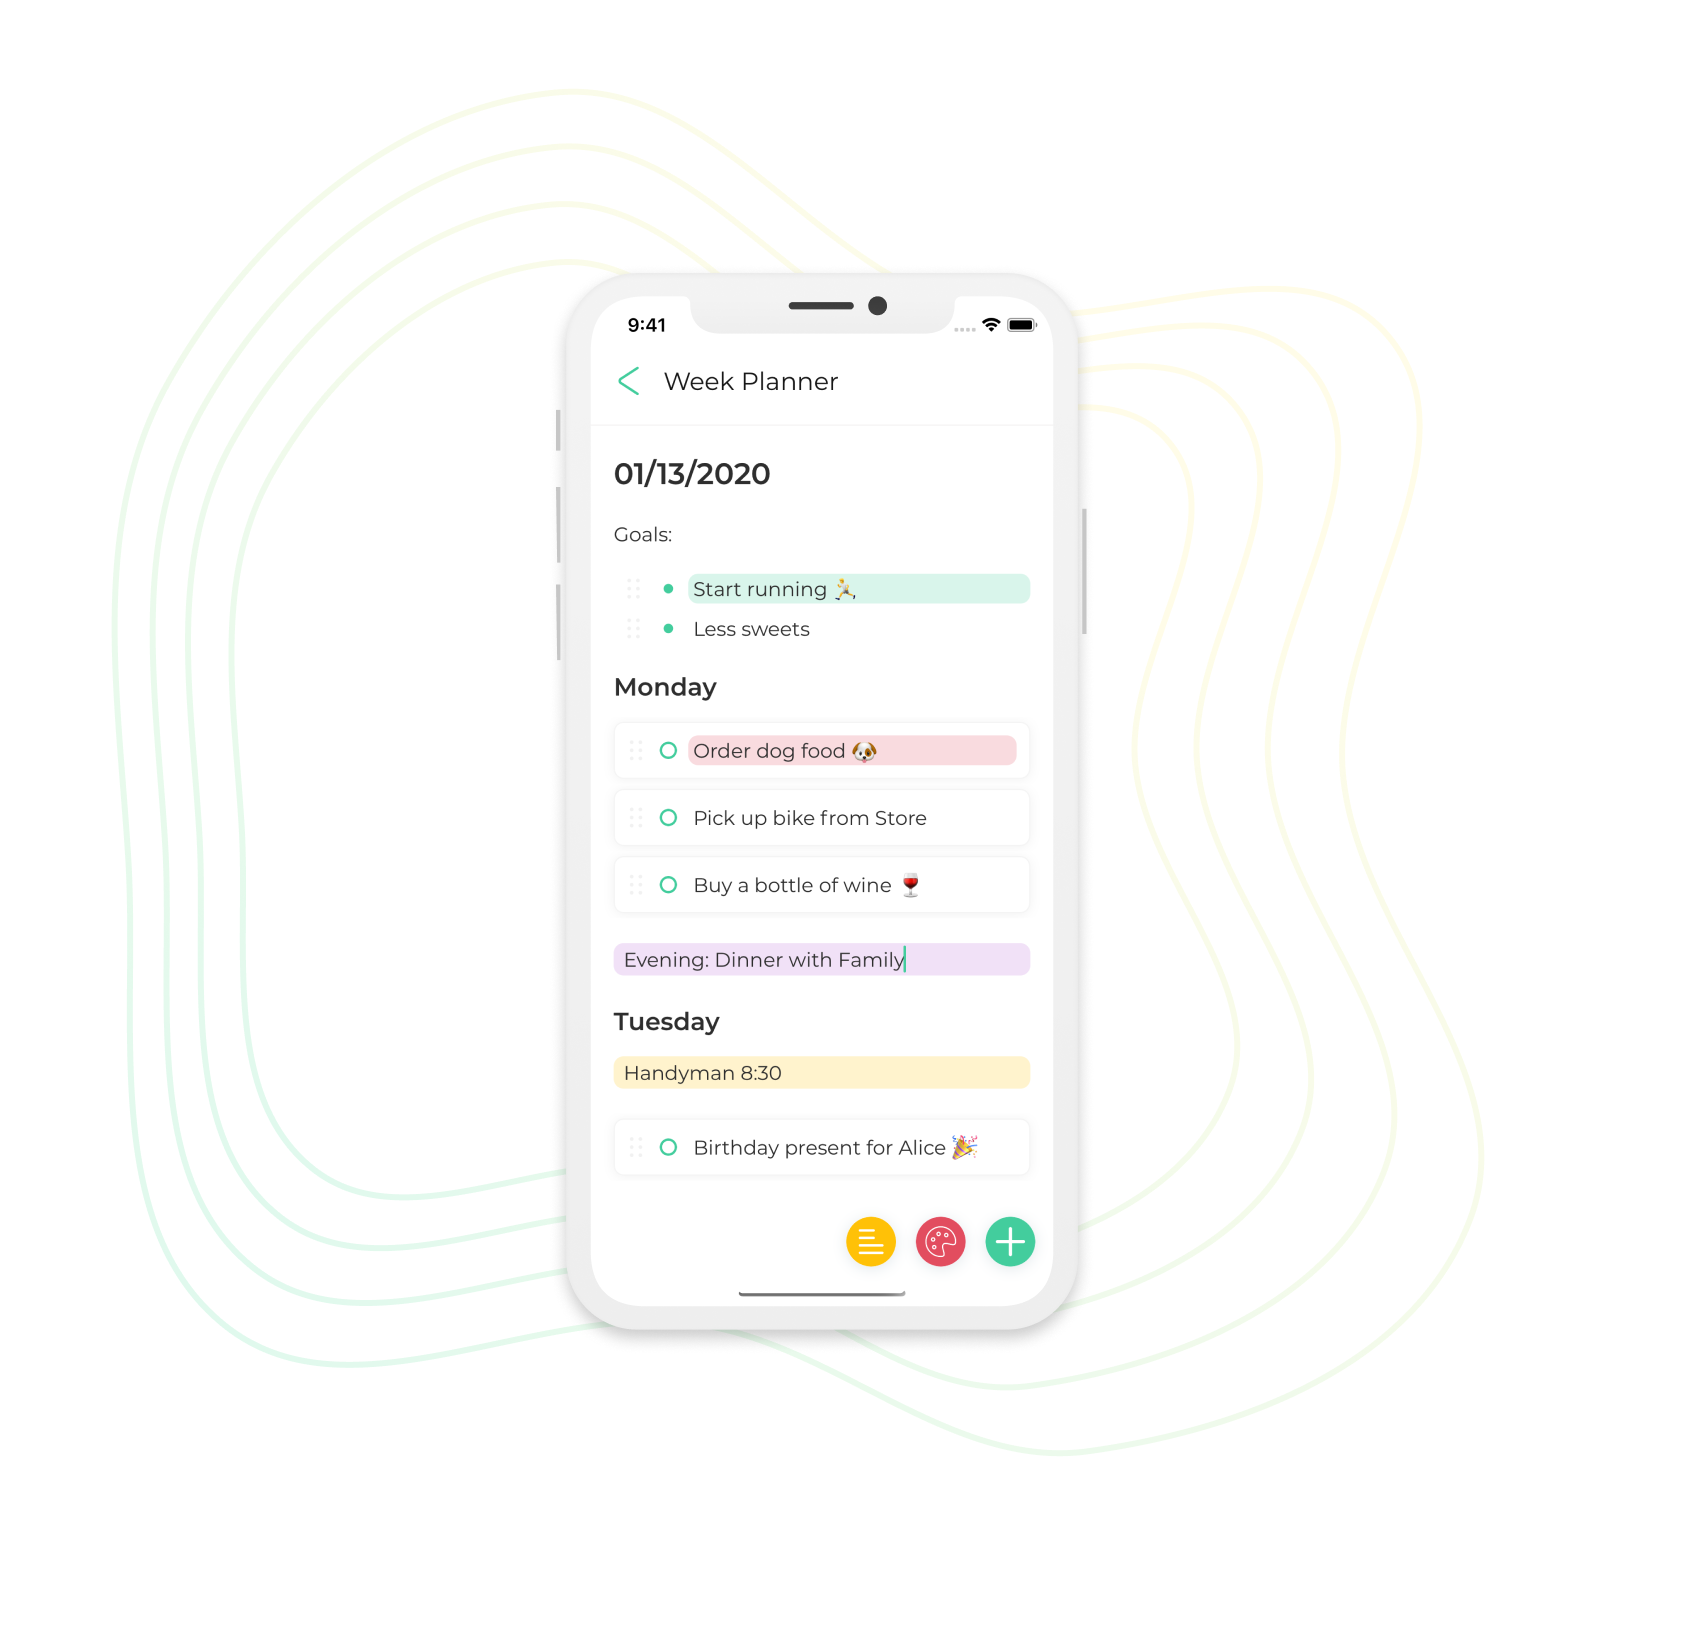
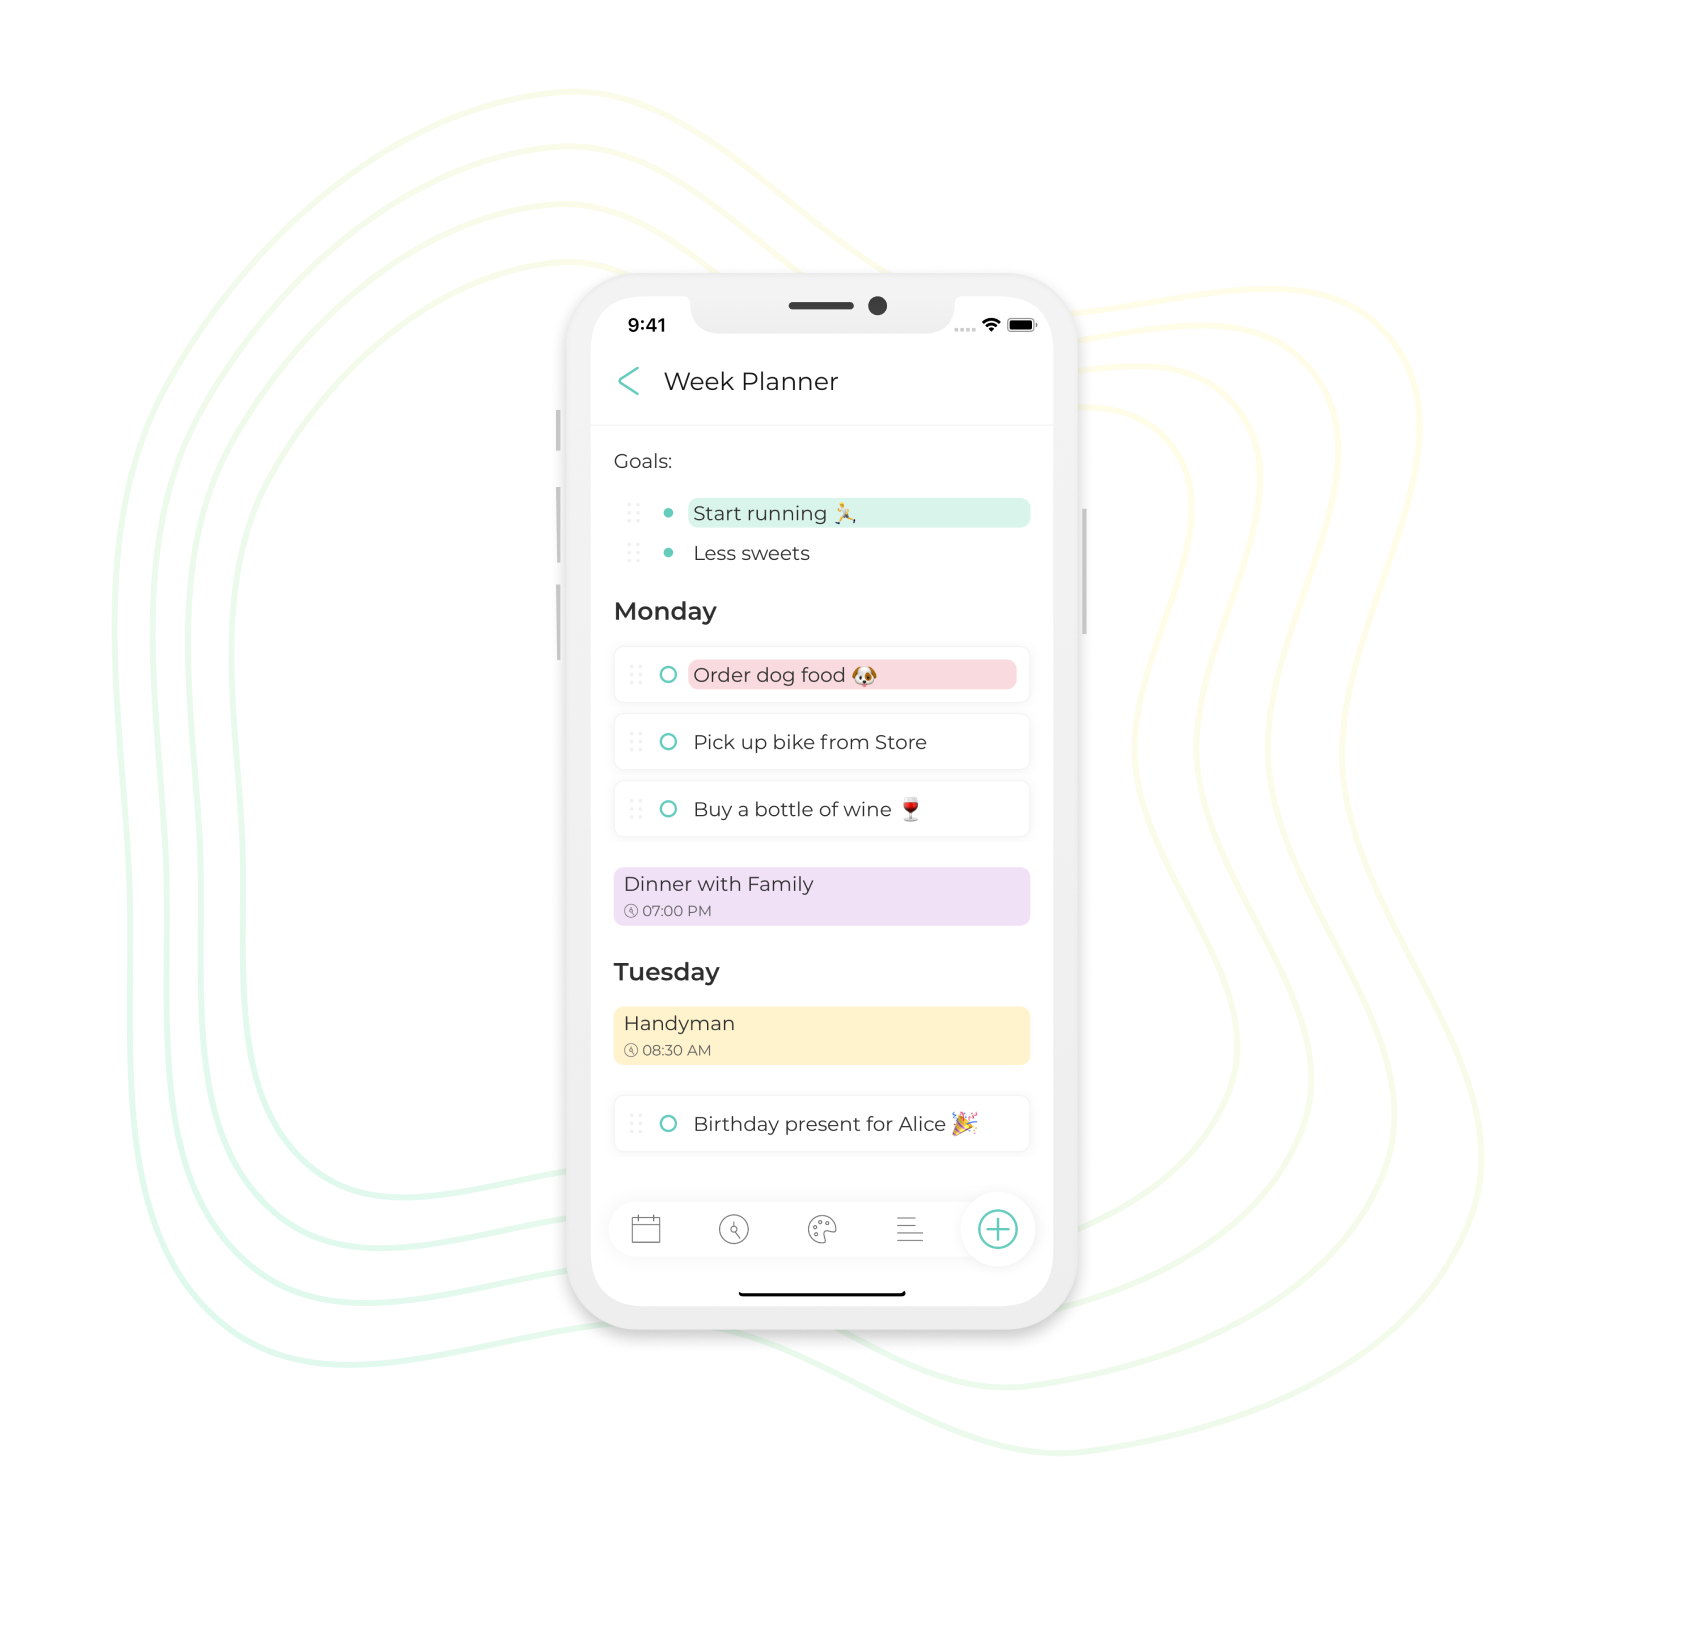
Update screenshots

Changed region(s): [[0.3381, 0.5296, 0.6147, 0.7166], [0.3688, 0.2804, 0.6147, 0.4985], [0.4917, 0.7166, 0.6147, 0.7789]]

diff --git a/index.html b/index.html
@@ -268,11 +268,11 @@
                         <div class="column is-4 is-offset-1">
                             <!-- Title -->
                             <div class="title is-handwritten text-bold">
-                                <div>Quick Convert</div>
+                                <div>Note Toolbar</div>
                                 <div class="bg-number"></div>
                             </div>
                             <!-- /Title -->
-                            <span class="section-feature-description">Use the convert button to easily convert between text, headings, list and todo items.</span>
+                            <span class="section-feature-description">Use the toolbar to set a date and time or colorize a heading, text, list or todo item.</span>
                         </div>
                         <div class="column is-8">
                             <!-- Featured illustration -->
